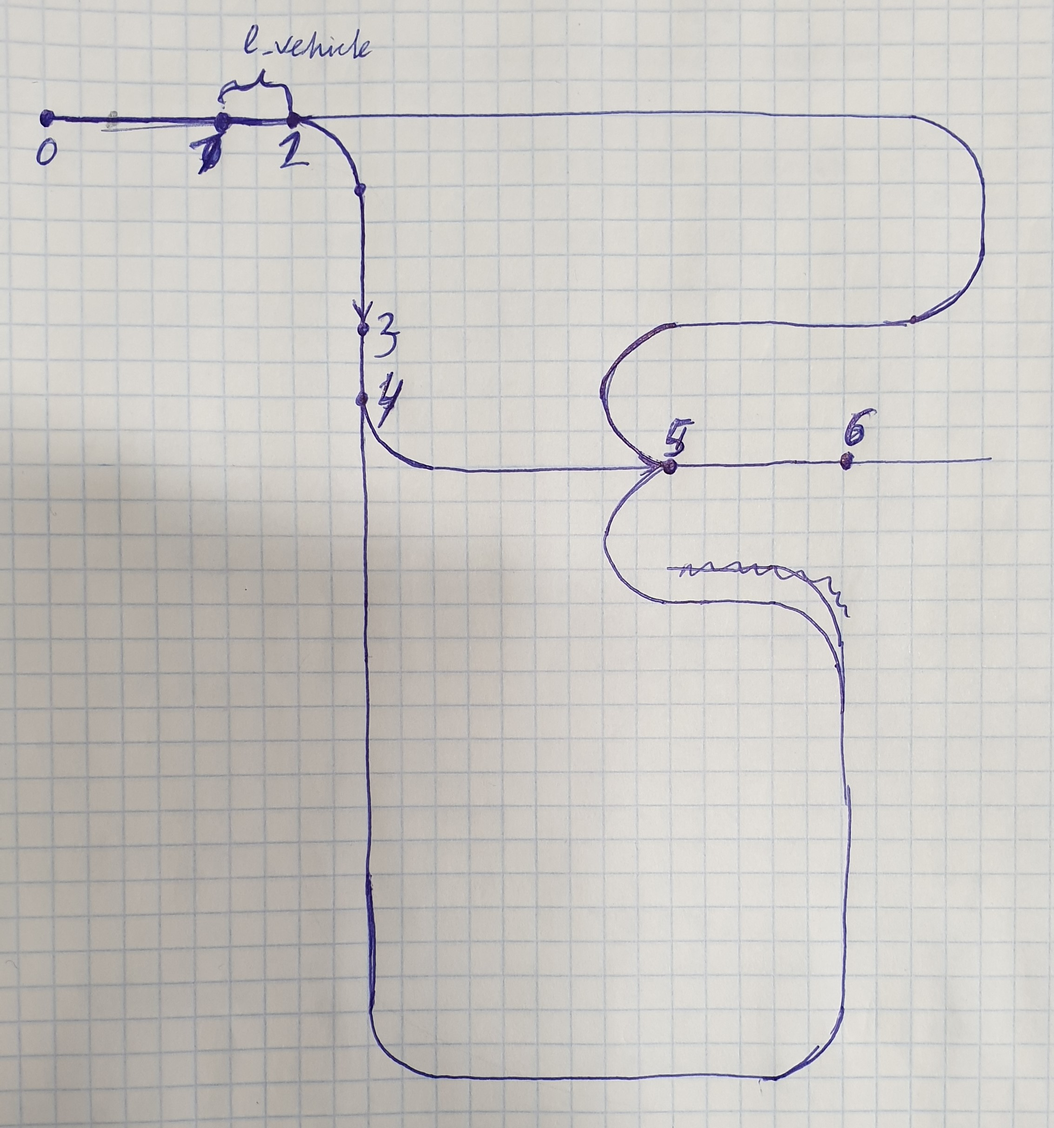
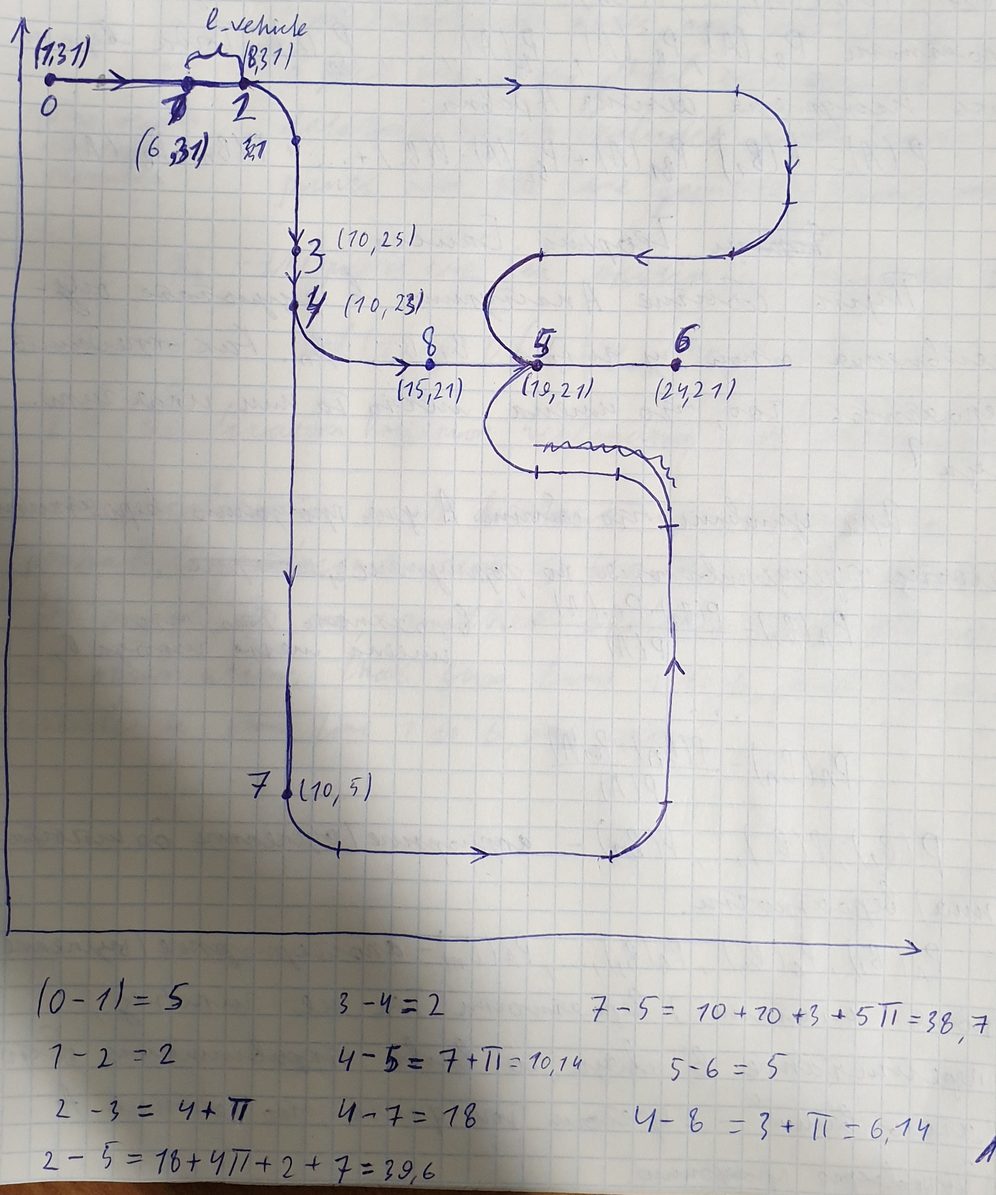
add reverse route finder

diff --git a/libs/route_planner.py b/libs/route_planner.py
@@ -6,23 +6,36 @@ class route_planner:
     def __init__(self):
         self.map = {'vertex': [],
                      'node' : 0}
+        self.r_map = {'vertex': [],
+                    'node': 0}
         self.g = 0
         self.current_pose = -1
         self.destination_pose = -1
+        self.direct_velocity = 40 / 3.6  # тактов/лапоть
+        self.reverse_velocity = 5 / 3.6   # тактов/лапоть
 
-    def create_map(self):
+    def create_map(self, map):
         #  Представляем карту в виде графа
-        self.g = Graph(self.map['node'])
-        for i in range(len(self.map['vertex'])):
-            u = self.map['vertex'][i][0]
-            v = self.map['vertex'][i][1]
-            w = self.map['vertex'][i][2]
+        self.g = Graph(map['node'])
+        for i in range(len(map['vertex'])):
+            u = map['vertex'][i][0]
+            v = map['vertex'][i][1]
+            w = map['vertex'][i][2]
             self.g.addEdge(u, v, w)
 
+    def create_reverse_map(self):
+        self.r_map = self.map.copy()
+
+        for i in range(len(self.r_map['vertex'])):
+            self.r_map['vertex'][i][0], self.r_map['vertex'][i][1] \
+                = self.r_map['vertex'][i][1], self.r_map['vertex'][i][0]
+
+
     def load_map(self, route_map):
-        #TODO Здесь нет проверки вменяемости карты
+        # TODO Здесь нет проверки вменяемости карты
         self.map = route_map
-        self.create_map()
+        self.create_map(self.map)
+        self.create_reverse_map()
 
     def set_current_pose(self, pose):
         self.current_pose = pose
@@ -30,36 +43,105 @@ class route_planner:
     def set_destination_point(self, dest):
         self.destination_pose = dest
 
+    def find_predecessors(self, node):
+        predecessors = []
+        for i in range(len(self.map['vertex'])):
+            if self.map['vertex'][i][1] == node:
+                predecessors.append(self.map['vertex'][i][0])
+        return predecessors
+
+    def find_common_elements(self, list):
+        # convert list of list to list of sets
+        sets = map(set, list)
+
+        # perform intersection on each set present in list
+        common_elements = set.intersection(*sets)
+
+        return common_elements
+
     def get_path(self):
         # Начинаем движение из узла current_pose и ищем путь до узла destination_pose. Для этого выполняем алгоритм
         # Беллмана-Форда и находим все кратчайшие пути от узла current_pose до всех других узлов. Здесь мы получаем
         # массив предков в котором порядковый номер элемента соответствует номеру узла,
         # а содержащееся значение говорит о предшественнике.
-        predecessor_array = self.g.BellmanFord(self.current_pose)
+        pred_and_distance_array = self.g.BellmanFord(self.current_pose)
 
         path = []
         # Прежде чем вернуть путь до точки назначение, нужно убедиться в ее доступности.
-        if predecessor_array[self.destination_pose] != -1:
+        if pred_and_distance_array[0][self.destination_pose] != -1:
 
-            # Затем восстанавливем путь по графу от узла 0 до 6.
+            # Затем восстанавливем путь по графу от узла current_pose до destination_pose.
             reached = False
 
             current = self.destination_pose
             while not reached:
                 path.append(current)
-                current = predecessor_array[current]
+                current = pred_and_distance_array[0][current]
 
                 if current == -1:
                     reached = True
 
             path.reverse()
 
-            state = 'Route is found'
+            state = 'Direct route is found'
         else:
-            state = 'Route is not found'
 
-        output = [state, path]
-        return output
+            # сбрасываю старую карту и загружаю обратную карту
+            self.g.reset_map()
+            self.create_map(self.r_map)
+
+            pred_and_distance_array = self.g.BellmanFord(self.current_pose)
+
+            pred_and_distance_target = self.g.BellmanFord(self.destination_pose)
+
+            #TODO проверить правильность нахождения наибыстрейшего пути
+
+            #TODO проверить правильность нахождения общих элементов, а то списки содержат предшествеников
+            common_elements = list(self.find_common_elements([pred_and_distance_array[0], pred_and_distance_target[0]]))
+
+            node_number = -1
+            weight = float("Inf")
+            for item in common_elements:
+                if item != -1:  # в общем списке содержится -1
+
+                    local_weight = self.reverse_velocity * pred_and_distance_array[1][item] + self.direct_velocity * \
+                    pred_and_distance_target[1][item]
+                    if (local_weight) < weight:
+                        node_number = item
+                        weight = local_weight
+
+            print(node_number)
+
+
+
+        #     predecessor = []
+        #     reverse_path = []
+        #
+        #     pred = self.find_predecessors(self.current_pose)
+        #     predecessor.extend(pred)
+        #
+        #     reverse_path.append(self.current_pose)
+        #     for node in predecessor:
+        #
+        #         predecessor_array = self.g.BellmanFord(self.destination_pose)
+        #
+        #         # Затем восстанавливем путь по графу от узла current_pose до destination_pose.
+        #         reached = False
+        #
+        #         current = self.current_pose
+        #         while not reached:
+        #             path.append(current)
+        #             current = predecessor_array[current]
+        #
+        #             if current == -1:
+        #                 reached = True
+        #
+        #         path.reverse()
+        #         state = 'Direct route is not found'
+        #
+        #
+        # output = [state, path]
+        # return output
 
 
 

diff --git a/run.py b/run.py
@@ -1,31 +1,35 @@
 from libs.route_planner import route_planner
 
-test_map = {'vertex': [[0, 1, 5],
-            [1, 2, 2],
+test_map = {'vertex': [
+            [0, 1, 5.],
+            [1, 2, 2.],
             [2, 3, 7.14],
             [2, 5, 39.6],
-            [3, 4, 2],
-            [1, 2, 2],
-            [4, 5, 10.14],
-            [4, 7, 18],
-            [5, 6, 5],
-            [7, 5, 38.7]],
-            'node': 8}
+            [3, 4, 2.],
+            [1, 2, 2.],
+            # [4, 5, 10.14],
+            [4, 7, 18.],
+            [4, 8, 6.14],
+            [5, 6, 5.],
+            [7, 5, 38.7] #,
+            # [8, 5, 4]
+                       ],
+            'node': 9}
 
-# создаем планировщик (запустили ROSноду)
+# создаем планировщик (запустили ROS-ноду)
 rp = route_planner()
 
 # загрузили карту (прослушали топик с векторной картой)
 rp.load_map(test_map)
 
-vehicle_pose = 5  # номер узла
+vehicle_pose = 8  # номер узла
 # установили текущее положение ТС (прослушали топик с положением машины)
 rp.set_current_pose(vehicle_pose)
 
-destination_pose = 4  # номер узла
+destination_pose = 6  # номер узла
 # указали куда нужно приехать
 rp.set_destination_point(destination_pose)
 
-# Получаем вывод о доступности точки назначени и маршрут до нее
+# Получаем вывод о доступности точки назначения и маршрут до нее
 route = rp.get_path()
 print(route)

diff --git a/README.md b/README.md
@@ -26,5 +26,11 @@ Route-planner
 информацией о доступности и направлении движения на участке, то behavior_core будет далее решать что делать.
 Допустим он может попросить local_planner проложить траекторию разворота.
 
-Как образом выдавать путевые точки в случае движения задним ходом, а затем передним? Отдельными пачками за раз,
+Каким образом выдавать путевые точки в случае движения задним ходом, а затем передним? Отдельными пачками за раз,
 по очереди?
+
+# TODO 
+- как сломать ребро? (нужно удалить пару чисел, которая описывает ребро. Но тогда я потеряю
+путевые точки на ребре. А машина находится на ребре как раз)
+- изменить класс bellman-ford для вывода веса до узла +
+
